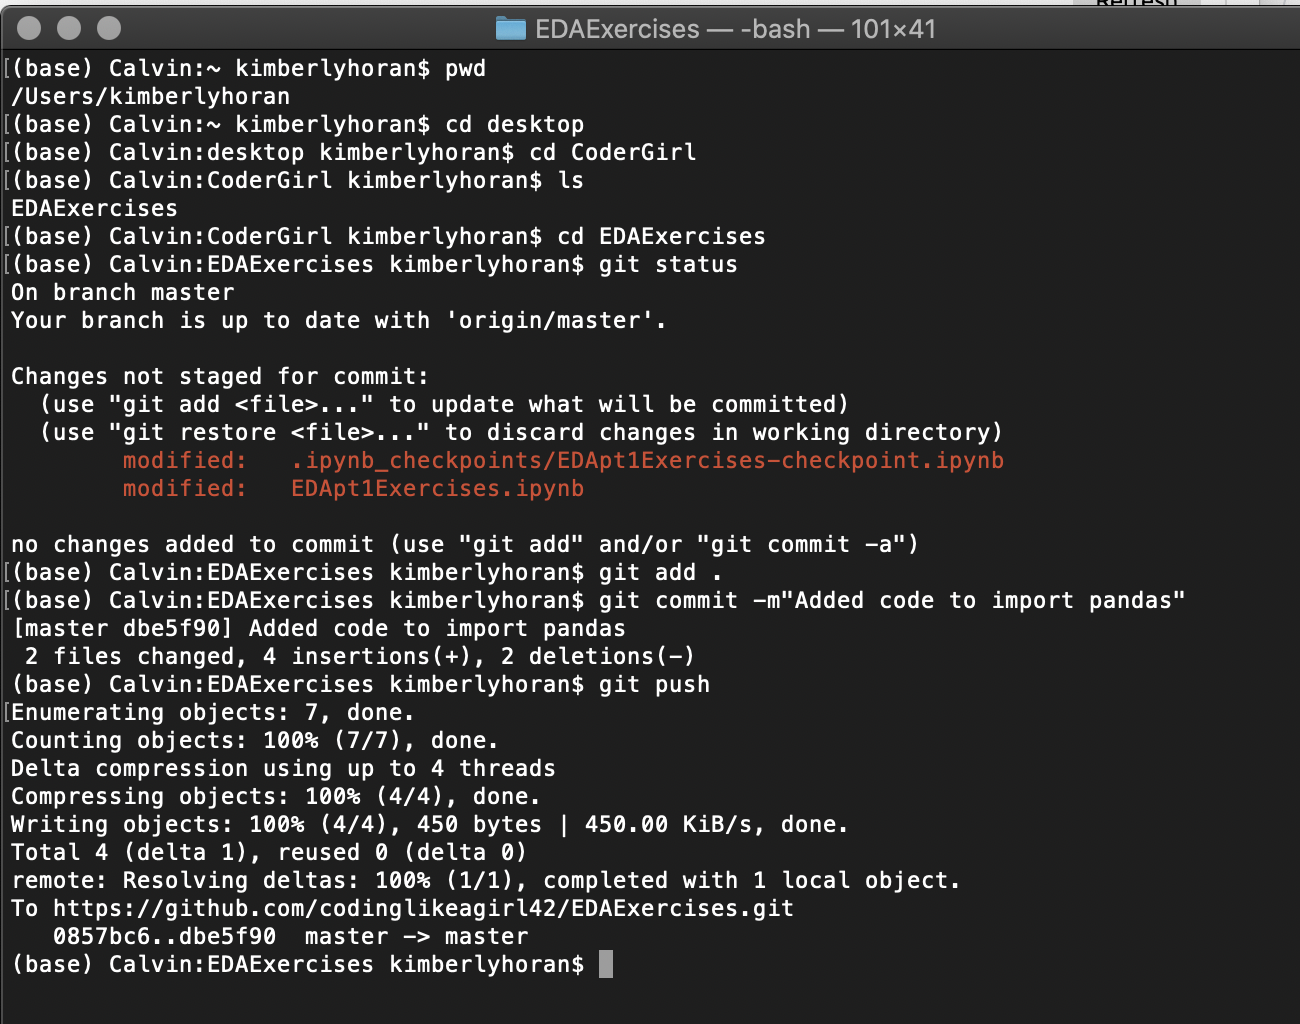
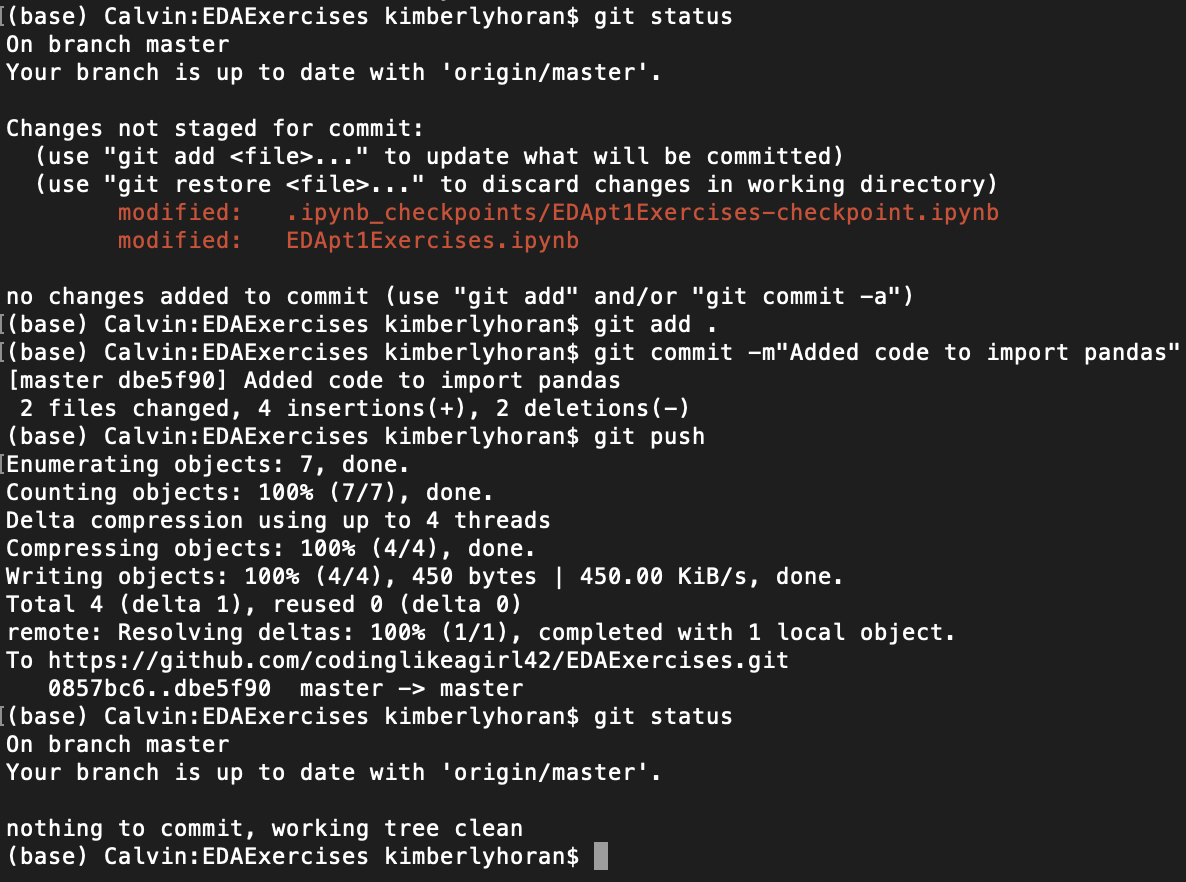
Fixed formating issues Using Github w/Jupyter

diff --git a/src/appendices/jupyter-notebooks/using-github-notebooks.rst b/src/appendices/jupyter-notebooks/using-github-notebooks.rst
@@ -22,17 +22,13 @@ take you to the repository page and will look something like this.
 .. figure:: figures/gitrepo.png
    :alt: A screenshot of where the fork button is on a Github repository.
 
-In the upper right corner your will see the fork button, when you click it you will then see this:
+In the upper right corner your will see the fork button, when you click it 
+a pop-up with accounts to choose from appears:
 
 .. figure:: figures/forkrepo.png
-   :alt: A screenshot of what you see when you press the fork button on a Github repository.
+   :alt: A screenshot of a popup with github accounts.
 
-Choose your account and then you’ll see:
-
-.. figure:: figures/forkrepo.png
-   :alt: A screenshot of where the fork button is on a Github repository.
-
-Choose your account and then you’ll see:
+Choose your account and then you'll see:
 
 .. figure:: figures/forking1.png
    :alt: A screenshot of the first screen you see after choosing your account.
@@ -46,80 +42,100 @@ Choose your account and then you’ll see:
 
 Next open the terminal on your computer and navigate to the folder where you will keep all your work for this class.  To make things easier I created a CoderGirl folder on my desktop.
 
-Some command line prompts to help you:
+.. list-table:: Some command line prompts to help you:
+  :align: left
+  :widths: 25, 75
 
-.. list-table:: 
-   
-   * - **Command**
-     - **Description**
-   * - pwd
-     - Shows current directory, where you are.
-   * - ls
-     - Lists everything in the current directory.
-   * - cd
-     - Changes directory.
-   * - mkdir
-     - Makes a new folder.
-   * - cd..
-     - cd space two period will take you one level up in the directory.
+  * - **Command**
+    - **Description**
+  * - pwd
+    - Shows current directory, where you are.
+  * - ls
+    - Lists everything in the current directory.
+  * - cd
+    - Changes directory.
+  * - mkdir
+    - Makes a new folder.
+  * - cd..
+    - cd space two period will take you one level up in the directory.
 
 I ran the following commands to navigate into and create a new folder(directory) for the assignment.
 
 .. list-table::
-
-   * - **Command Line Prompt**
-     - **Reason Why**
-   * - pwd
-     - First I want to see where i was.
-   * - cd desktop
-     - Then switch directory to desktop.
-   * - ls
-     - Ran ls to list contents.
-   * - cd Codergirl
-     - Switch to Codergirl folder.
-   * - git clone <github url> 
-     - (paste link you copied earlier)
+  :align: left
+  
+  * - **Command Line Prompt**
+    - **Reason Why**
+  * - pwd
+    - First I want to see where i was.
+  * - cd desktop
+    - Then switch directory to desktop.
+  * - ls
+    - Ran ls to list contents.
+  * - cd Codergirl
+    - Switch to Codergirl folder.
+  * - git clone <github url> 
+    - (paste link you copied earlier)
 
 .. figure:: figures/terminalcloning.png
    :alt: A screenshot of cloning a Github repo in terminal.
 
 
-*Note:  If you would like a more detailed description of the terminal visit here.*
+.. admonition:: Note
+  
+  If you would like a more detailed description of the terminal see :ref:`Chapter 4 Terminal<terminal-chapter>`. 
+  For more command line prompts see :ref:`Terminal Commands Tutorial<terminal-commands-tutorial>`.
 
 Now open your notebook in Jupyter Notebooks.
 
-After you have made changes to your notebook and saved them you will want to push those changes back up to github.
+After you have made changes to your notebook and saved them you will want to push those changes back 
+up to github.
 
 In the terminal again navigate to your project. 
 
-*Hint: Notice in the terminal photo below at the top labeled 1: Easy way to check you’re in the right folder.*
+.. admonition:: tip
+  
+  Notice in the terminal photo below at the top labeled 1: Easy way to check you're in the right folder.
+
+  .. figure:: figures/tipTerminal.png
+   :alt: A screenshot of terminal window showing location at the top.
 
 There are three steps used to commit changes to your git repository and a final step to push up to your repository on github.
 
-Command Line Prompt:		Reason Why:
-git status 	Gives us information about files that have been changed.
+.. list-table::
+  :align: left
+  :widths: 35, 65
+  
+  * - **Command Line Prompt**
+    - **Reason Why**
+  * - git status
+    - Gives us information about files that have been changed.
+  * - git add .
+    - Adds all the files that have changed to the commit, there is a space between add and the period(don't forget the period)
+  * - git commit -m “MESSAGE”
+    - Creates the new commit, the message should describe the changes made to the files.
+  * - git push
+    - Pushes changes from your local repository up to your repository on GitHub.
+  * - git status
+    - | Check to see your were successful. Should now say: 
+      | Your branch is up to date with 'origin/master'. 
+      | nothing to commit, working tree clean
 
-git add . 	Adds all the files that have changed to the commit, there is a space between add and the period(don’t forget the period)
-
-git commit -m “MESSAGE” 	Creates the new commit, the message should describe the changes made to the files. 
-
-git push	Pushes changes from your local repository up to your repository on GitHub
-
-git status	Checks to see your were successful.
-
-Should say:
-Your branch is up to date with 'origin/master'.
-nothing to commit, working tree clean
-
+.. figure:: figures/firstcommit.png
+   :alt: A screenshot of a terminal window with a steps of a commit.
 
 
 Now when you check your github repository, you will see the update.
 
+.. figure:: figures/checkfirstcommit.png
+   :alt: A screenshot of Github repo with commit message.
 
+.. admonition:: note
 
-*Note: See this link for a more detailed explanation of Git.*
+  See `this link <https://education.launchcode.org/intro-to-professional-web-dev/appendices/git/workflows.html>`__ for a more detailed explanation of Git.
 
-When you are ready to submit your assignment copy the link to your repository on github and paste it into the submission box and hit submit.
+When you are ready to submit your assignment, copy the link to your repository on github and 
+paste it into the submission box in Canvas and hit submit.
 
 
 
